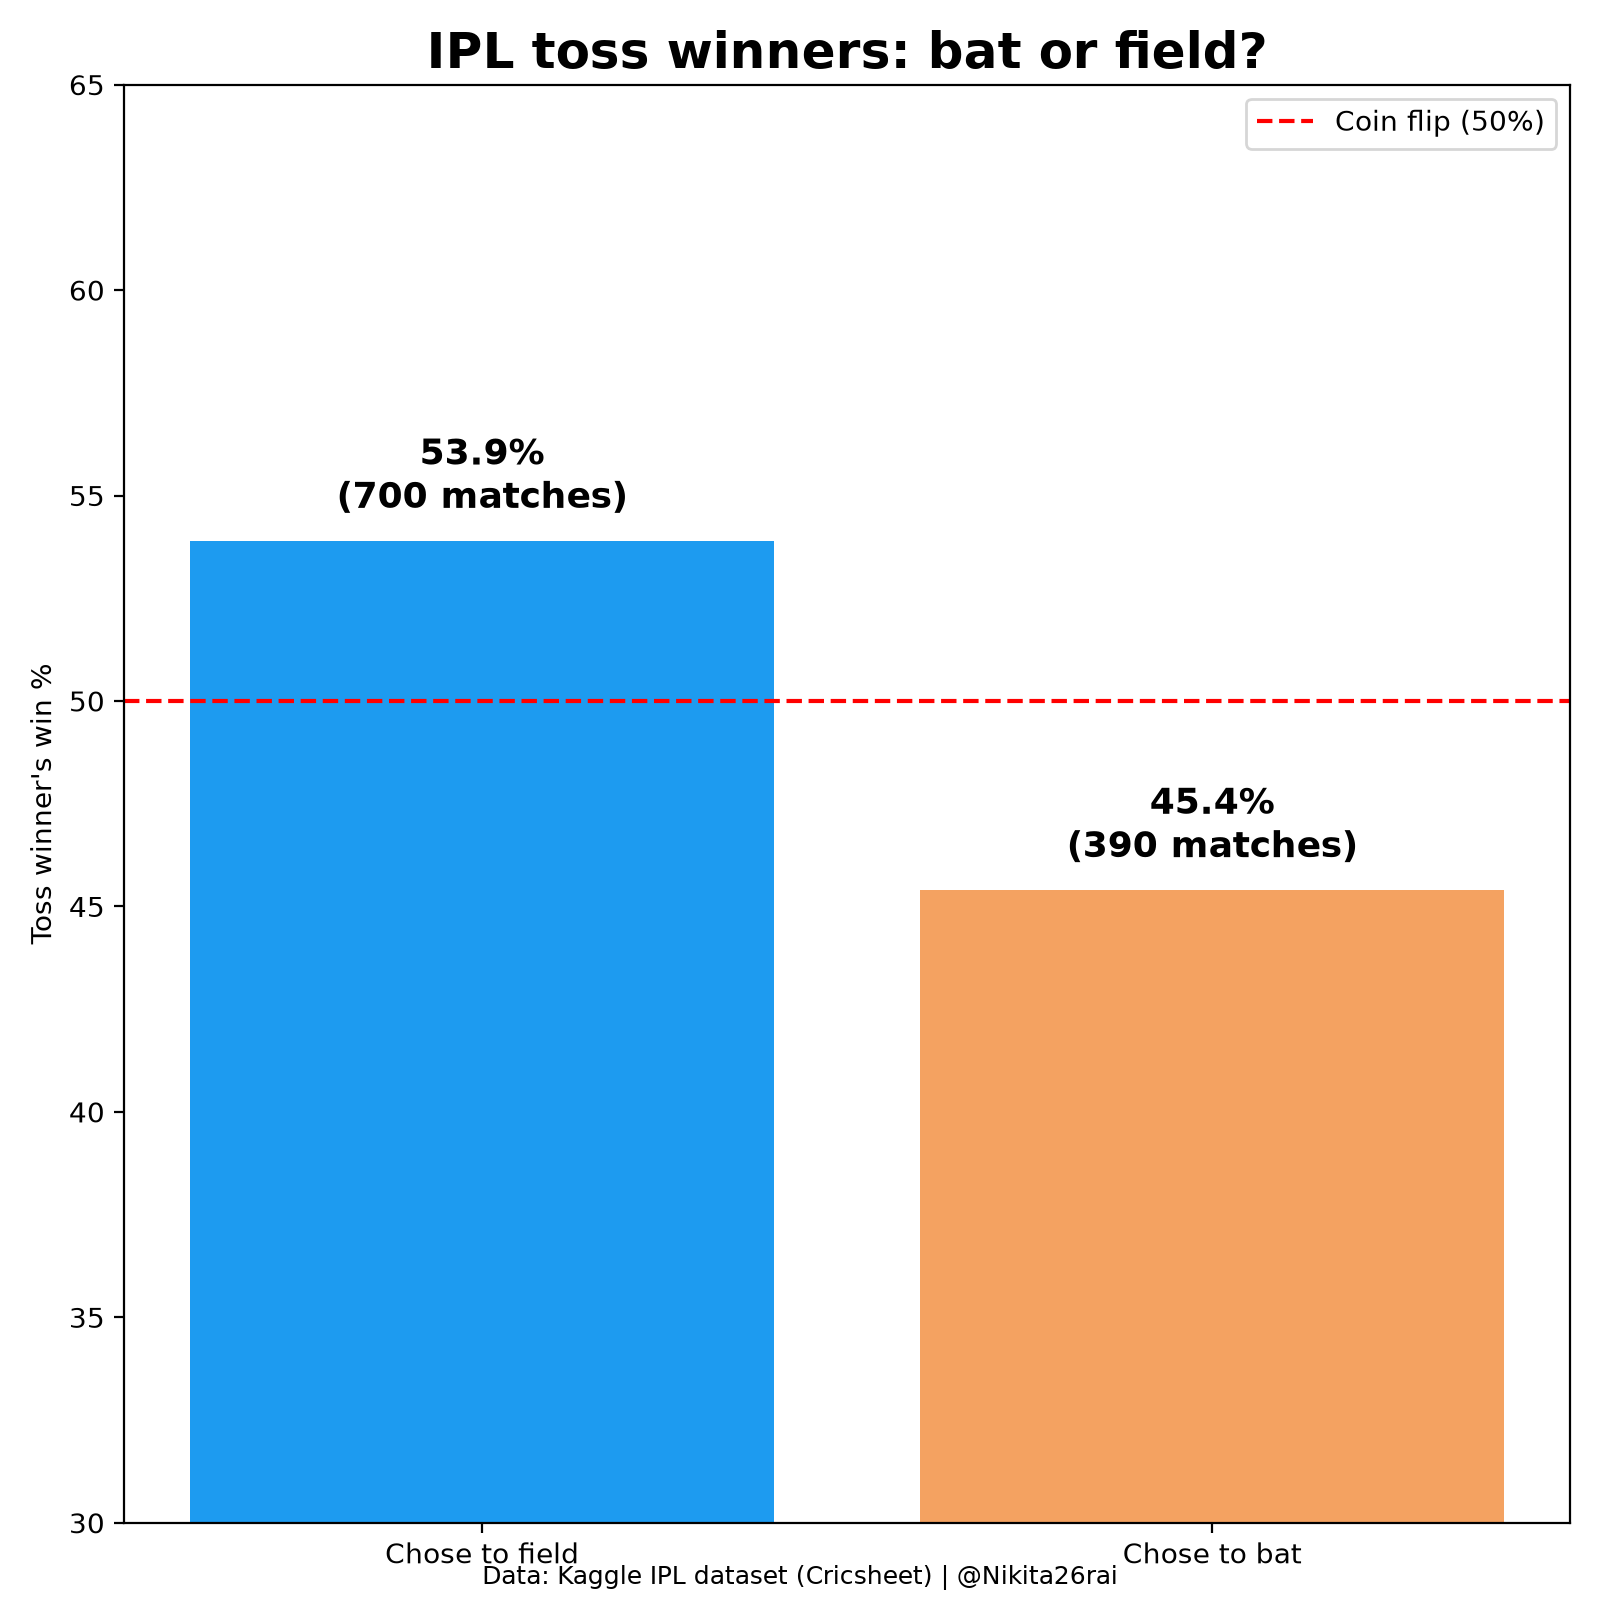
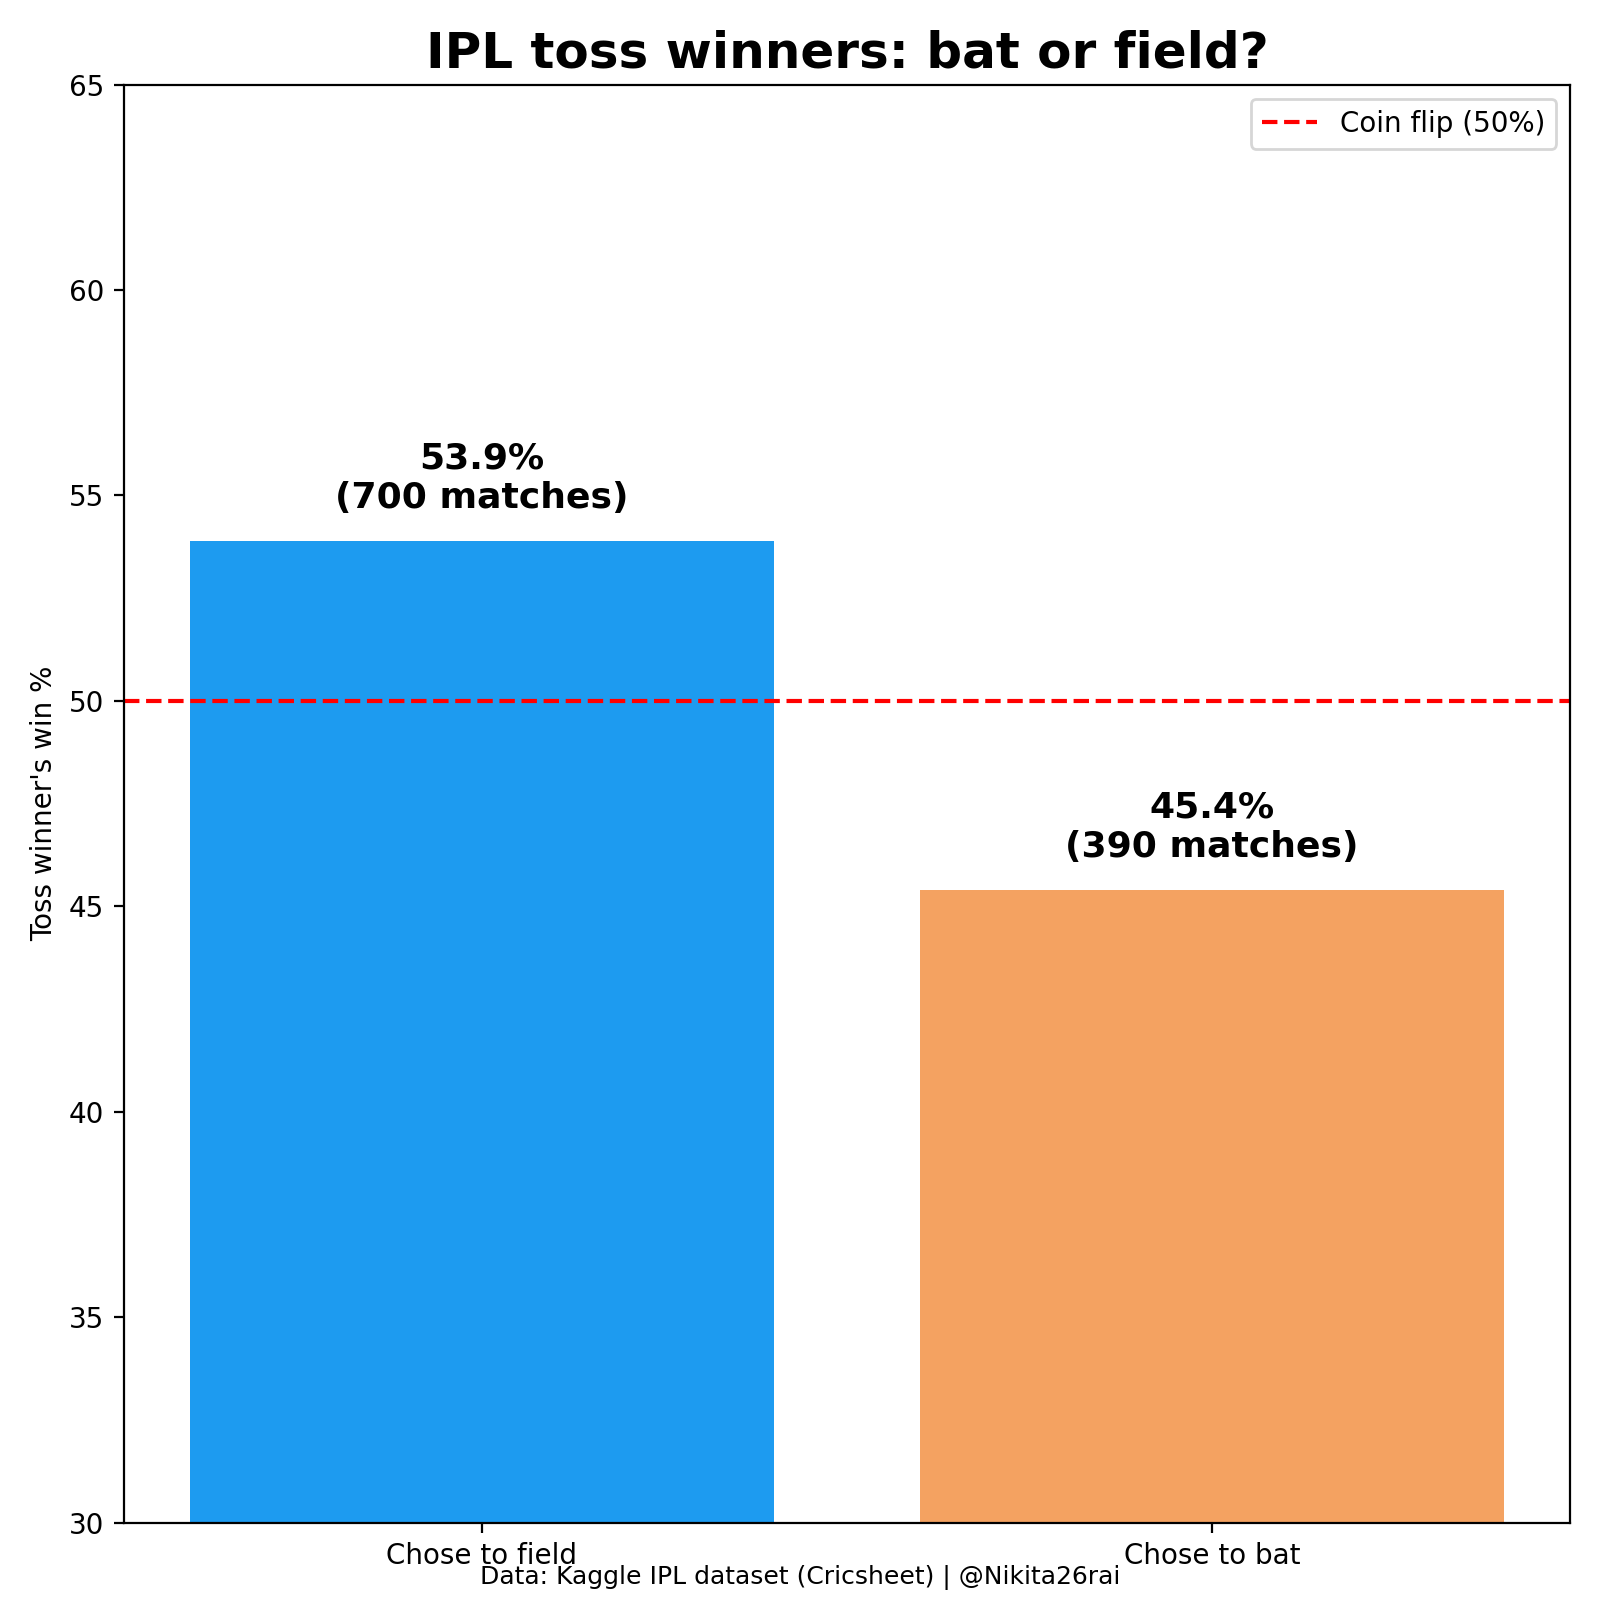
Remove social drafts, keep analysis only

diff --git a/pipelines/day1_chasing.py b/pipelines/day1_chasing.py
@@ -1,0 +1,17 @@
+import duckdb
+
+con = duckdb.connect("ipl.duckdb")
+
+chase_pct, n = con.sql("""
+    SELECT
+        ROUND(100.0 * AVG(
+            CASE
+                WHEN toss_decision = 'field' THEN toss_winner_won::INT
+                ELSE (NOT toss_winner_won)::INT
+            END
+        ), 1),
+        COUNT(*)
+    FROM matches
+""").fetchone()
+
+print(f"Chasing team won {chase_pct}% of {n:,} matches")
